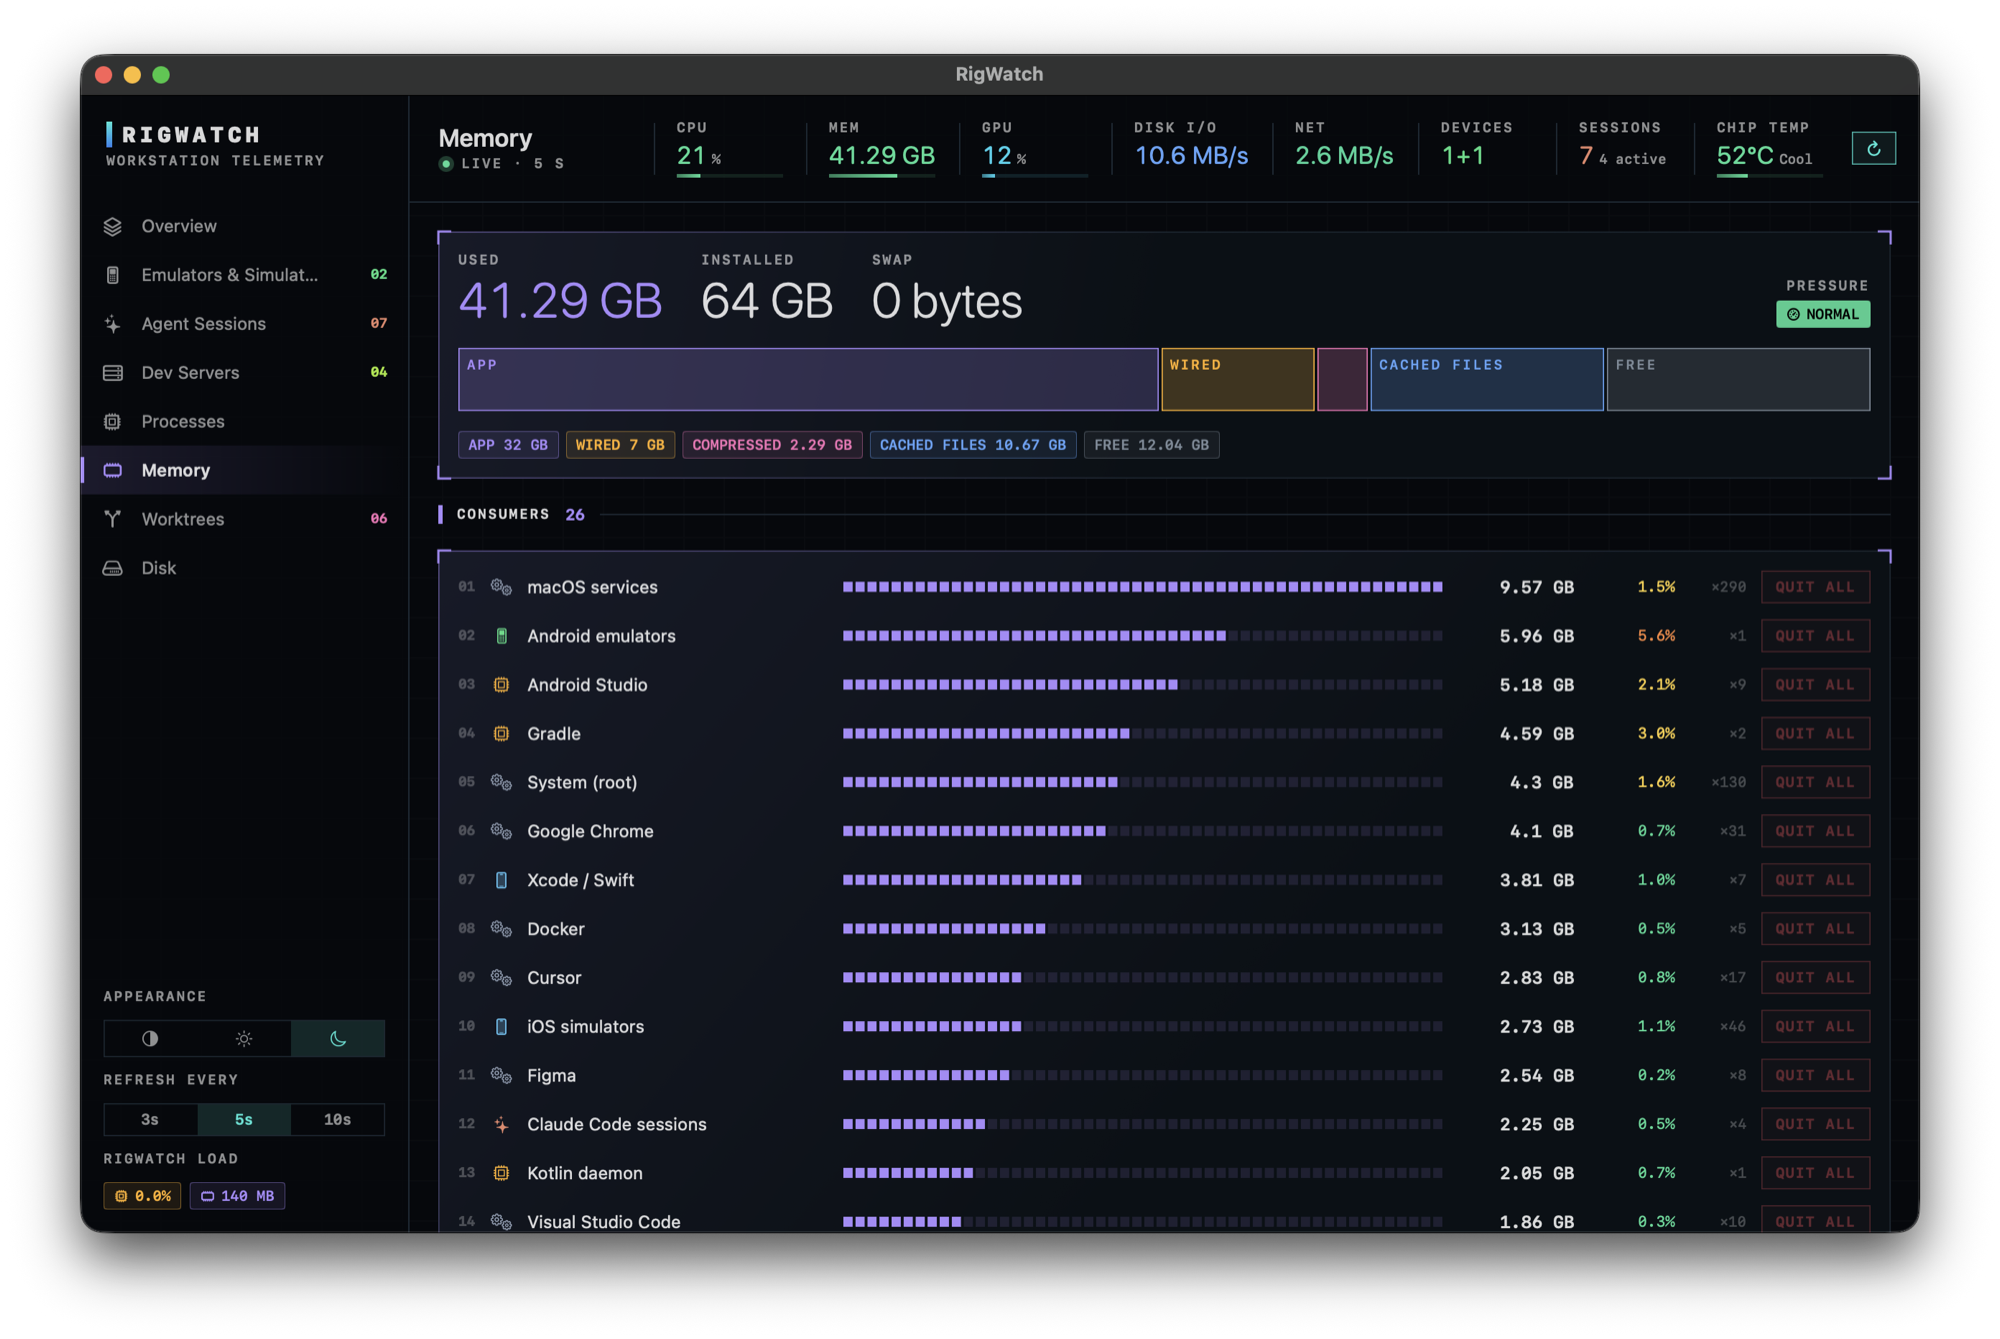
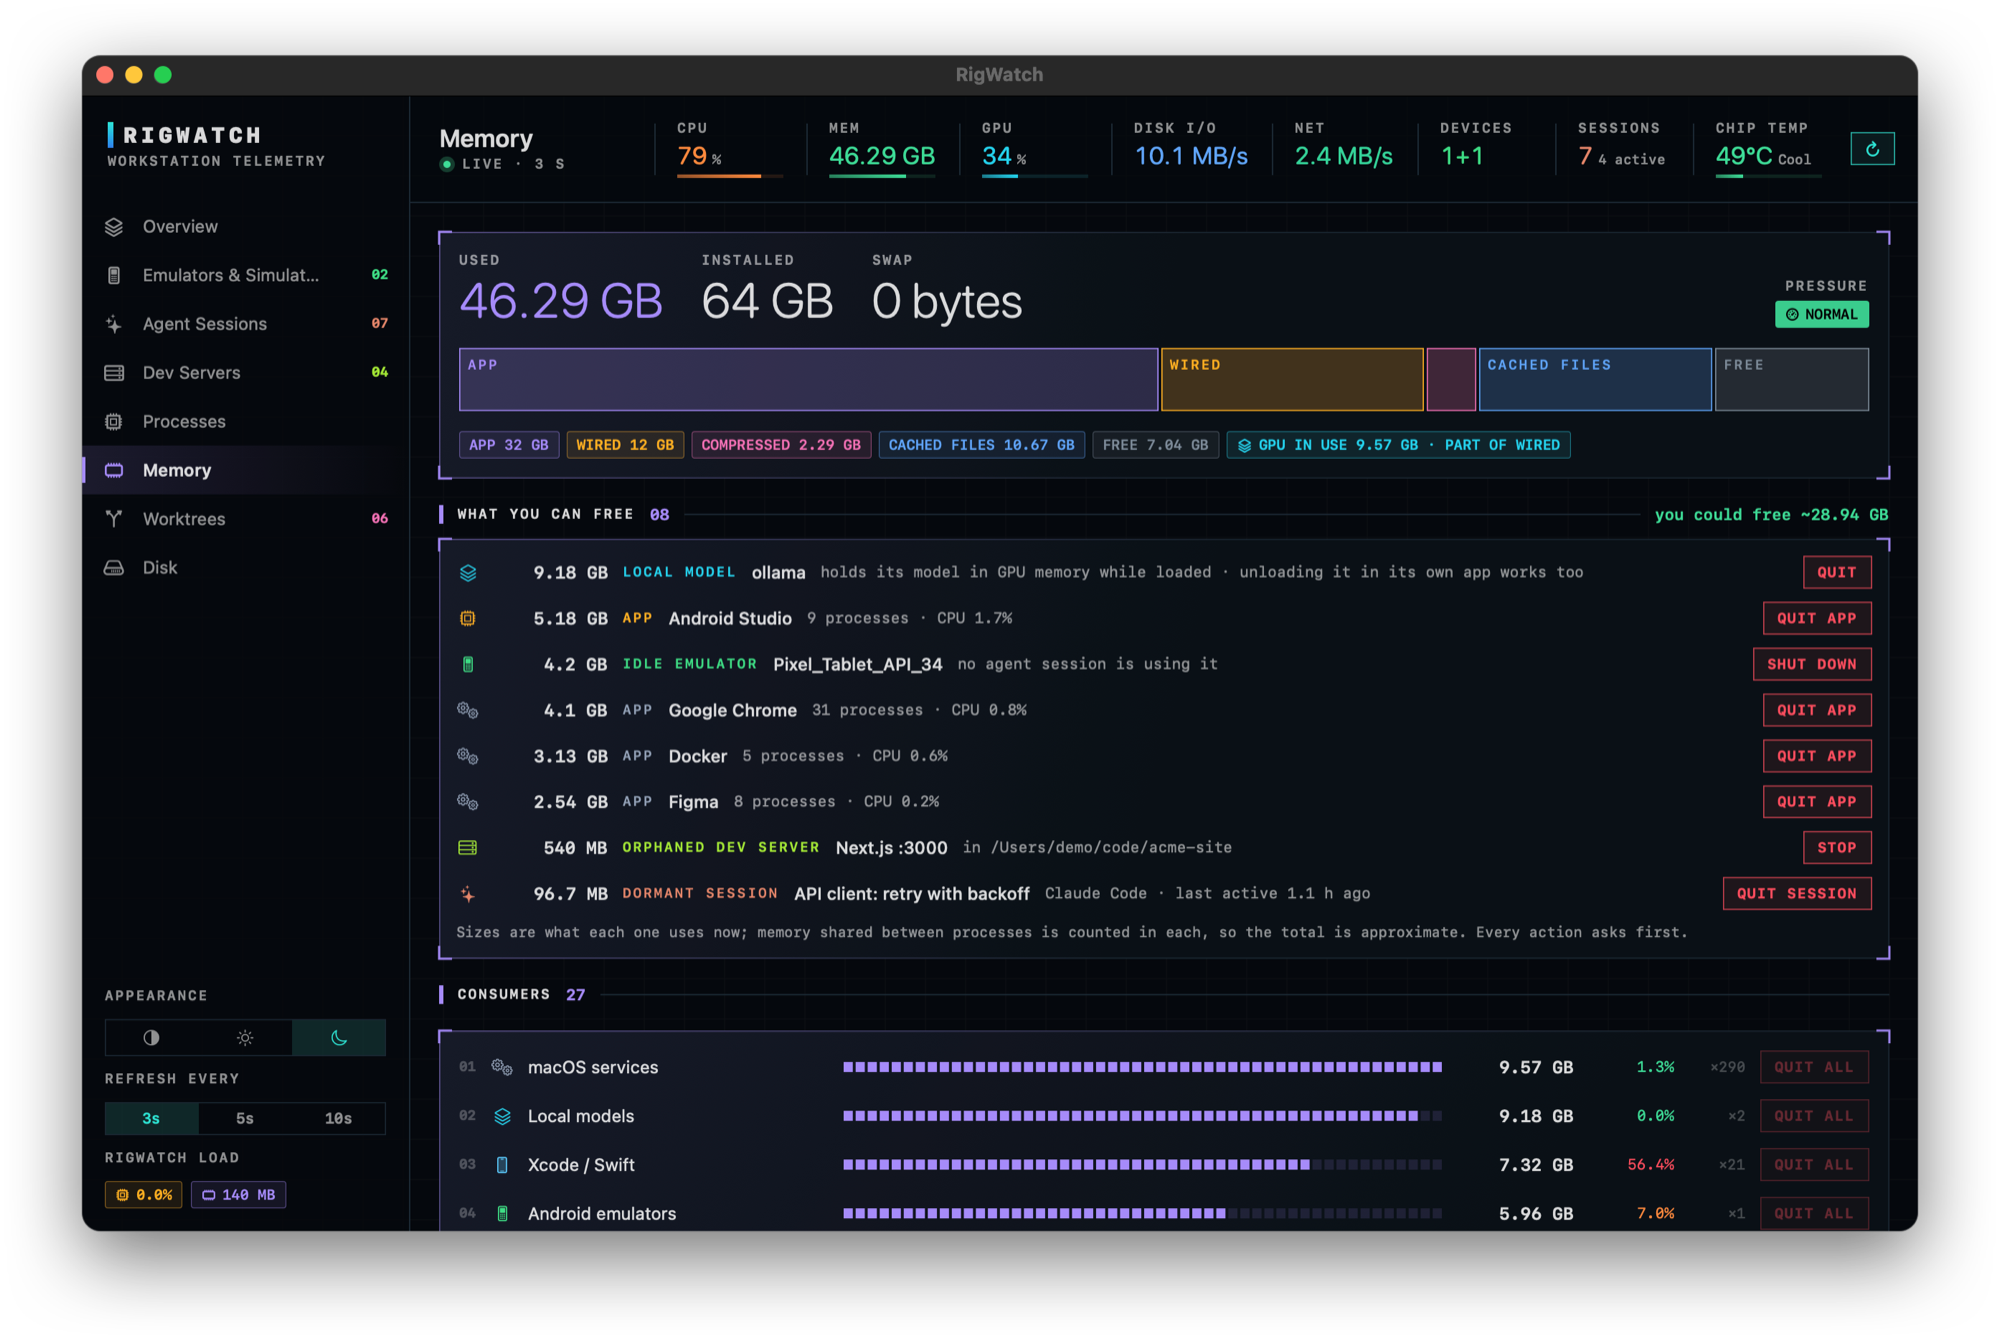
Describe the CPU and memory views in the README and retake screenshots
The feature table gains rows for the Top CPU and memory list and for
what happens when CPU spikes; Overview and Memory describe the
available bar, the explained drill-down and what you can free. The
light-on-the-machine section gives the hidden-window check and measured
CPU instead of a range. Overview (dark and light) and Memory screenshots
retaken in demo mode with the same capture, frame and 2000 px width as
before.

diff --git a/README.md b/README.md
@@ -40,12 +40,14 @@ Activity Monitor shows all of it as 700 unrelated processes. RigWatch groups eve
 
 | Page | What you get |
 | --- | --- |
-| **Overview** | A chip-die map of the machine, sized by memory or CPU. Click any block to see what's inside it. Live CPU, memory, GPU load and GPU memory, disk, network and chip temperature, so a local model's load is visible next to everything else. |
+| **Overview** | A chip-die map of what is using the machine, sized by memory or CPU; what is still available is a thin bar under it. Click any block to see what's inside it, with the biggest processes listed and explained. Live CPU, memory, GPU load and GPU memory, disk, network and chip temperature, so a local model's load is visible next to everything else. |
+| **Top CPU and memory** | Click the CPU or memory gauge (or the top bar) for what is using it right now: each group's biggest processes, who started them (agent session, dev server, emulator, app, macOS) and one action for each: Quit session, Stop, Shut down, Quit app or Quit. macOS's own processes get a plain-words note instead (kernel_task, WindowServer, Spotlight's mds_stores, photoanalysisd, iCloud's bird and 40 more): what it is, why it is busy, and what to do, often nothing. |
+| **When CPU spikes** | CPU at 70% or more for two samples in a row puts a banner on Overview naming the top culprits, their share and who started them, e.g. `swift-frontend ×14 (started by <session>) 56%`. A timeline keeps the last 15 minutes in memory; click any bar to see what was on top at that moment, including spikes that happened while the window was closed. |
 | **Agent Sessions** | Every coding agent running, with its CPU, memory, devices, worktrees and every process it started: dev servers, test runners, MCP servers, builds. Claude Code, OpenCode and Codex also show the session title and last prompt, and can be resumed. Cursor, Windsurf, T3 Code, Gemini CLI, Aider, Goose and Amp are recognised from their processes. |
 | **Dev Servers** | Every local server you started, by the port it listens on: a framework guess (Vite, Next.js, Storybook, Rails, Django, uvicorn and more), project folder, uptime, CPU and memory, and which agent session started it. That link is remembered, so a server left running after its session ended still says who started it. Open it in the browser, or stop it behind a confirmation. |
 | **Emulators & Simulators** | Each Android emulator and iOS simulator: what it's showing, which session launched it, the last command a session ran on it, a live screen, and a graceful shut-down. |
 | **Processes** | Grouped by app or tool, with CPU on one scale (100% = the whole machine) and quit or force-quit behind a confirmation. |
-| **Memory** | Where the RAM went: apps, wired, compressed, file cache, swap and pressure. |
+| **Memory** | Where the RAM went: apps, wired, compressed, file cache, swap and pressure, and **what you can free**: idle emulators and simulators, dormant agent sessions, abandoned dev servers, a loaded local model and big apps, each with its size and one button, adding up to "you could free ~X GB". GPU memory (a local model's weights) is counted once, in the process that holds it, not again as Kernel & drivers. |
 | **Worktrees** | Every `git worktree` under your home folders, which session made it, how much disk it takes, whether anything is using it, and a remove that refuses to lose uncommitted or unpushed work. |
 | **Disk** | The whole drive as a chip-die map of folders. Click into any folder; right-click to show it in Finder. |
 
@@ -152,8 +154,11 @@ nothing else on your Mac.
 
 ## Light on the machine it watches
 
-- Samples every 5 seconds while the window is open (3, 5 or 10 s in the sidebar) and once a minute
-  when it is hidden. Typically 0.1–2% of one core and 150–250 MB.
+- Samples every 5 seconds while the window is open (3, 5 or 10 s in the sidebar). While it is hidden,
+  a CPU and memory check every 5 seconds (Mach calls only) keeps the spike history going; processes
+  are listed only while CPU is at 70% or more or memory pressure is up, at most every 10 seconds, and
+  everything else is sampled once a minute. Measured on an M5 Max: about 2.4% of one core with
+  Overview open at 3 s, 0.25% hidden, 120–220 MB.
 - Machine-wide numbers come from Mach, sysctl and IOKit directly, with no helper processes.
 - Listening ports come from libproc, not `lsof`, at most every 3 seconds and only for processes
   that are new or already listening (plus a sweep every 30 seconds).
@@ -165,6 +170,7 @@ nothing else on your Mac.
 
 - **Nothing is closed without asking.** Every quit, shut-down and removal shows what will happen
   and who is using it first. macOS's own processes and other users' processes are never offered.
+  Quit app asks the app to quit the way ⌘Q does, so it can ask to save first.
 - **Quit session ends a session's own agent process**: on a live session card it sends SIGTERM to
   that session's terminal `claude` (or other agent) process after saying which pid it is and the
   command that resumes it. Sessions in the Claude desktop app are left to the app (archive them there).
@@ -210,6 +216,8 @@ Sources/RigWatch/
   Demo.swift         the -demo data set
   Theme.swift        colours, panels, gauges
   Views.swift        every page, and the chip-die treemap
+  Insight.swift      Top CPU/memory, who started what, the spike banner and timeline, what you can free
+  Explain.swift      plain-words notes for common macOS processes
 Assets/make-icon.swift   draws Assets/AppIcon.png
 ```
 
